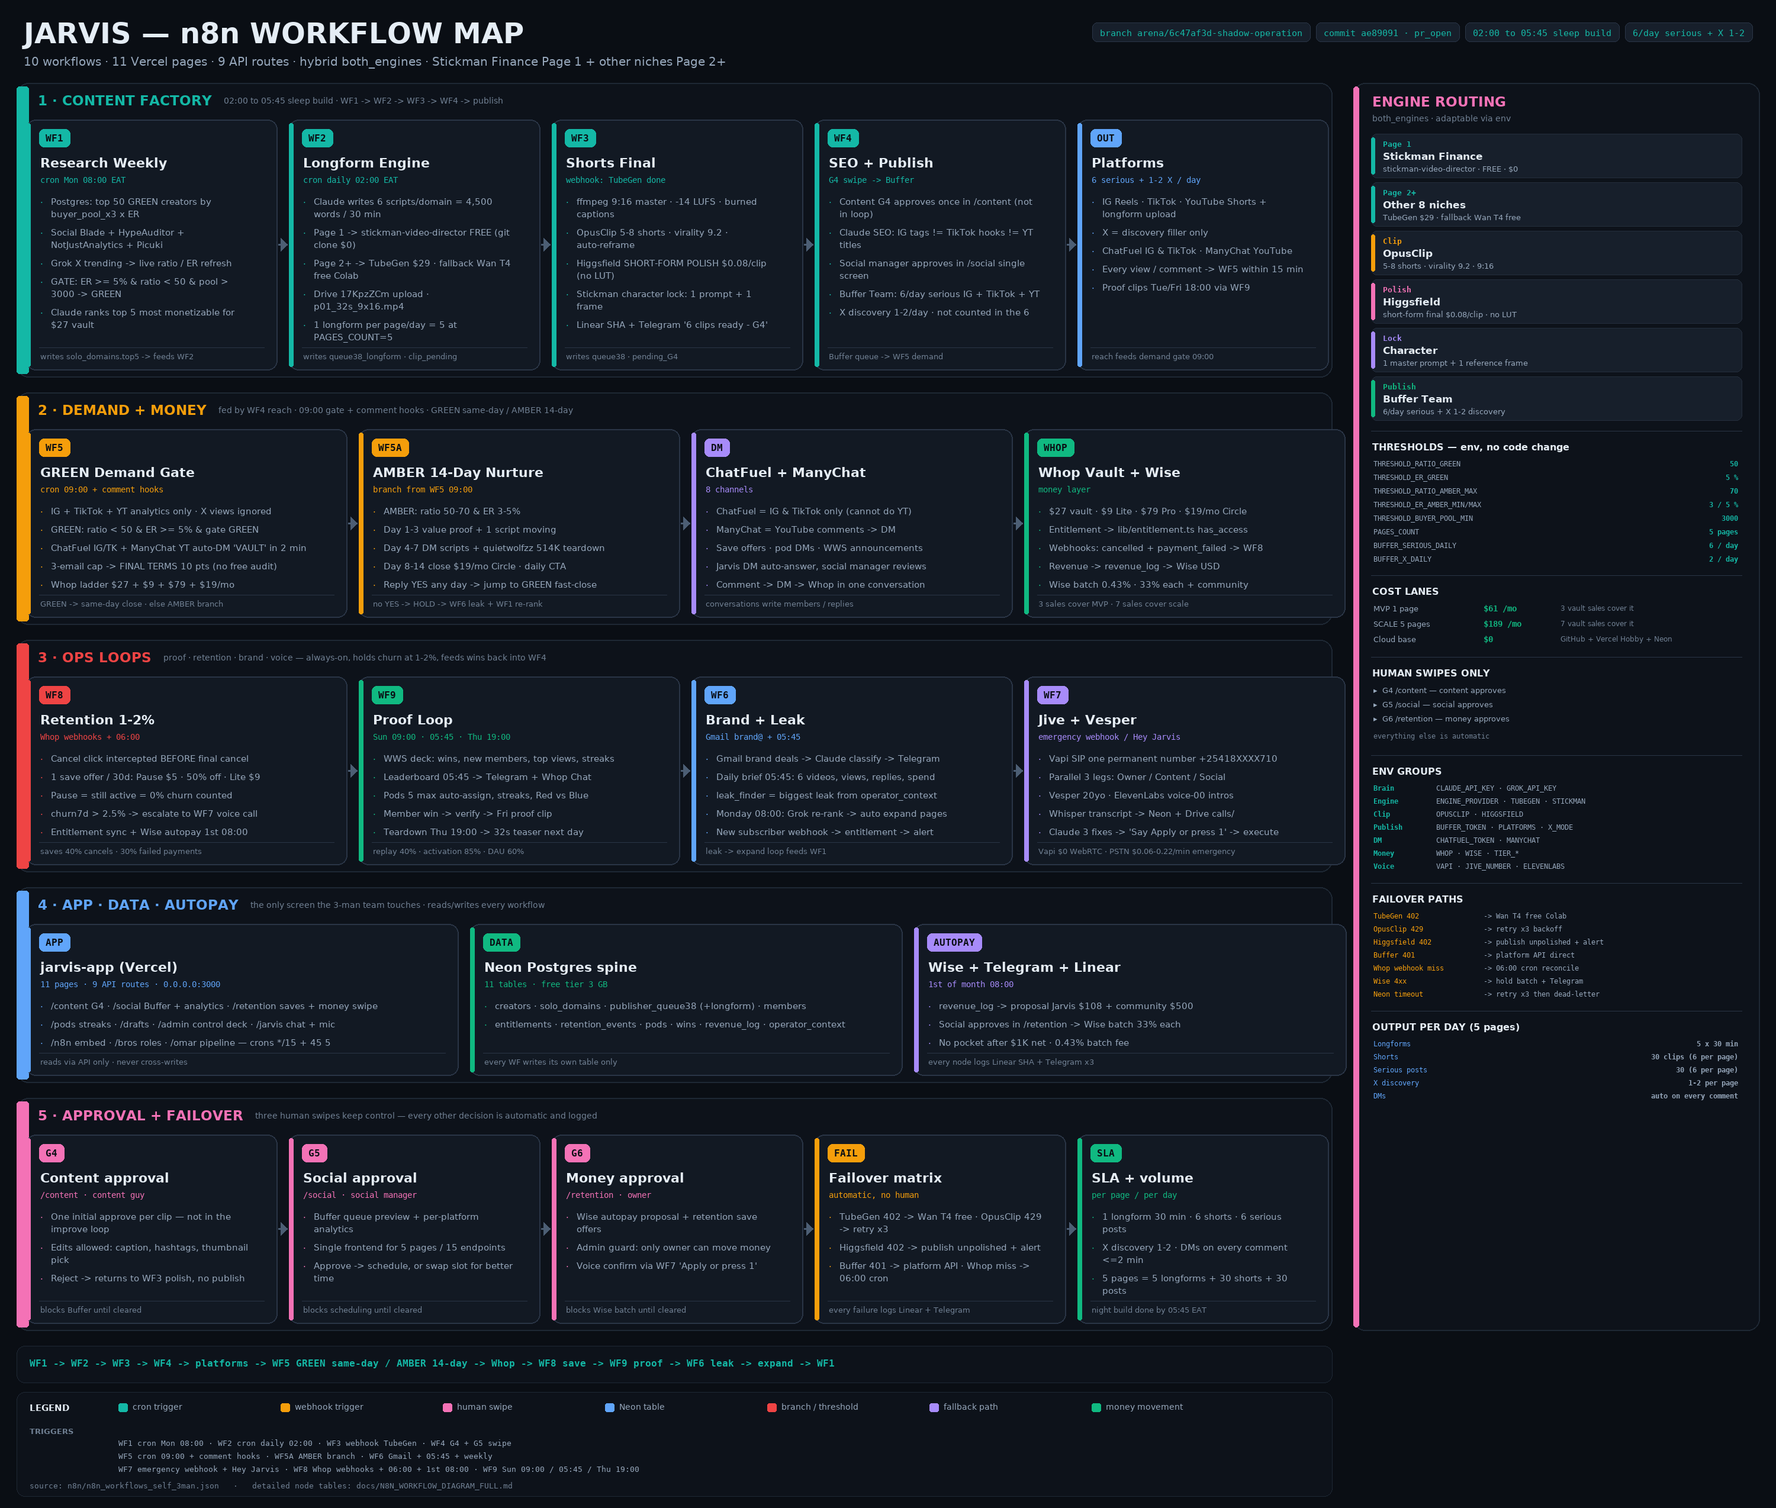
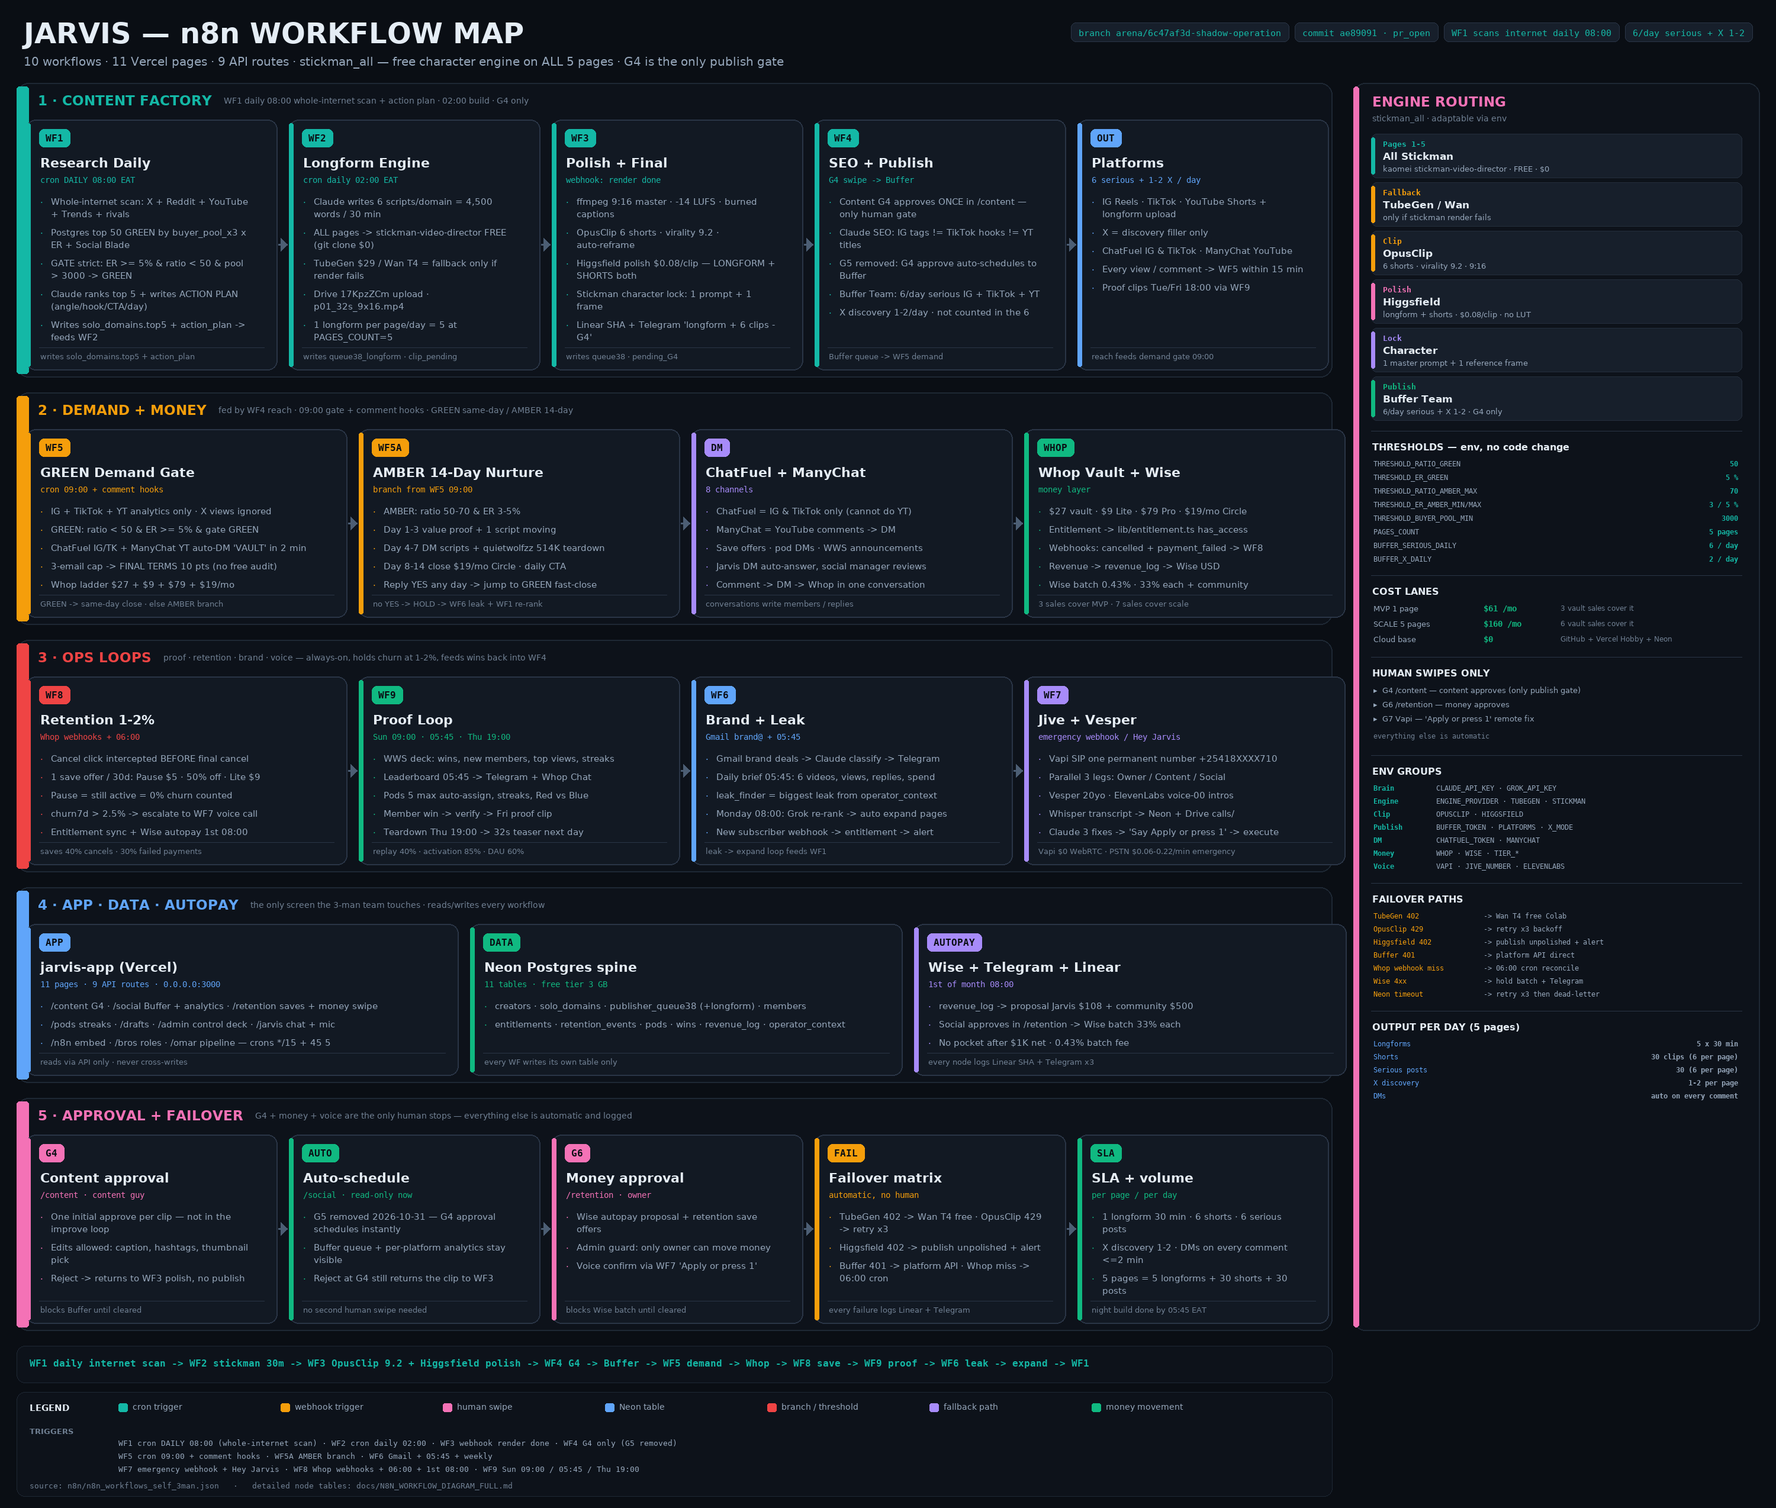
Round1 workflow answers: WF1 daily whole-internet scan + action plan, stickman_all every page, Higgsfield polishes longform+shorts, G5 removed (G4 only)
- WF1 cron Mon -> DAILY 08:00: whole-internet strategy scan (X/Reddit/YouTube/Trends/rivals) + Claude action plan per niche (angle/hook/CTA/day/proof), writes solo_domains.action_plan
- Engine stickman_all: kaomei/stickman-video-director free renders 30m longform AND shorts on ALL pages; TubeGen $29 -> fallback only if render fails
- Higgsfield polish scope longform+shorts (both go through Buffer), character lock unchanged, no LUT
- G5 social approval removed: G4 approve auto-schedules Buffer; /social read-only analytics
- Thresholds unchanged (strict 5% / <50 / 3000)
- cost $189 -> $160/mo (TubeGen to fallback), 6 sales cover scale
- poster + docs regenerated, ENGINE_PROVIDER=stickman_all

diff --git a/jarvis-app/app/content/page.tsx b/jarvis-app/app/content/page.tsx
@@ -6,18 +6,18 @@ export default function ContentG4() {
   return (
     <div className="space-y-4">
       <h1 className="text-xl font-bold">Content Guy — Production Pipeline G4 • queue38 pending</h1>
-      <p className="text-sm text-zinc-500">He does the G4 approval & any changes to be made in the content & production pipeline — approves queue38 before Buffer. Claude Max auto-scripts TubeGen 30min → OpusClip auto clips → his G4 tweaks → approve to social. Adaptable niches via CONFIG + Neon solo_domains top5 (no hardcoded here).</p>
+      <p className="text-sm text-zinc-500">He does the G4 approval — the ONLY human approve now (G5 removed 2026-10-31, Buffer auto-schedules on G4). Claude Max auto-scripts 30min → Stickman free engine renders every page → OpusClip clips → Higgsfield polishes longform + shorts → his G4 tweaks → live. WF1 rescans the whole internet daily 08:00 for strategies + action plan. Niches via CONFIG + Neon solo_domains top5.</p>
       <div className="grid grid-cols-3 gap-3 text-sm">
-        <div className="rounded-xl bg-teal-500 text-black p-4"><div className="font-bold">WF2 TubeGen 30m</div><div>Claude auto-scripts {c.words_per_longform} words → TubeGen faceless 30min longform → OpusClip auto → 5-8 shorts — niches from WF1 Grok rank</div></div>
-        <div className="rounded-xl bg-zinc-900 border border-zinc-800 p-4"><div className="font-bold">WF3 Short-form Final</div><div>OpusClip 9.2 virality + Higgsfield improve final Shorts pieces + Stickman Finance character lock (one prompt + one frame) → queue38 — brand voice per niche</div></div>
+        <div className="rounded-xl bg-teal-500 text-black p-4"><div className="font-bold">WF2 Stickman 30m</div><div>Claude auto-scripts {c.words_per_longform} words → stickman free engine renders every page → OpusClip 6 clips — niches + action plan from WF1 daily scan</div></div>
+        <div className="rounded-xl bg-zinc-900 border border-zinc-800 p-4"><div className="font-bold">WF3 Polish + Final</div><div>OpusClip 9.2 virality + Higgsfield polishes BOTH longform + shorts (one prompt + one frame character lock) → queue38 → G4 → Buffer</div></div>
         <div className="rounded-xl bg-zinc-900 border border-zinc-800 p-4"><div className="font-bold">G4 queue38</div><div>queue38 pending_G4 → content guy tweaks captions/hashtags/LUT → approves to Buffer Team queue — excluded from improve loop per lock</div></div>
       </div>
       <div className="rounded-xl bg-zinc-900 border border-zinc-800 p-3 text-xs text-zinc-400">Niche pool (env NICHES_POOL + DB): {pool.join(" • ")} — WF1 Grok picks top5 to Neon solo_domains for WF2. Change env + re-rank without code.</div>
       <div className="rounded-2xl bg-[#13131a] border border-zinc-800 p-5">
         <h2 className="font-bold">queue38 pending_G4 — content guy swipe</h2>
         <div className="mt-3 space-y-2 text-sm">
-          {[`TubeGen 30min: ${pool[0]} Hack #3 → OpusClip 8s clip 1/6 virality 9.2 + virality 9.2 (GREEN <${t.ratio_green}+${t.er_green}%+)`,
-            `TubeGen 30m longform 2/6 ${pool[1]||pool[0]} → OpusClip virality 8.8 + captions 9:16`,
+          {[`Stickman 30min: ${pool[0]} Hack #3 → OpusClip 8s clip 1/6 virality 9.2 + virality 9.2 (GREEN <${t.ratio_green}+${t.er_green}%+)`,
+            `Stickman 30m longform 2/6 ${pool[1]||pool[0]} → OpusClip virality 8.8 + captions 9:16`,
             `OpusClip 32s long ${pool[2]||pool[0]} virality 9.0 → queue38 pending tweaks`].map((text,i)=>(
             <div key={i} className="rounded-xl bg-zinc-900 border border-zinc-800 p-3 flex justify-between items-center">
               <div>{text}</div><button className="px-3 py-1 rounded-full bg-white text-black text-xs font-bold">Approve → Buffer</button>

diff --git a/jarvis-app/lib/jarvis.ts b/jarvis-app/lib/jarvis.ts
@@ -17,7 +17,7 @@ Brand voice: ${process.env.JARVIS_BRAND_VOICE || "adaptive per solo_domains.bran
 GREEN/AMBER GATE (adaptable via THRESHOLD_* env, defaults from config/adaptable.json):
 - GREEN = ratio <${t.ratio_green}:1 + ER ${t.er_green}%+ (buyer_pool_x3, 8-Gate pass) → immediate trigger: Comments→DM→Whop→Purchase superfast path (DM fast-close, no 14-day)
 - AMBER = ratio ${t.ratio_green}-${t.ratio_amber_max}:1 + ER ${t.er_amber_min}-${t.er_amber_max}% → trigger 14-day sequence via ${CONFIG.conversion.chatfuel} + ${CONFIG.conversion.manychat_yt} nurture before Whop
-- RED = ratio >${t.ratio_amber_max} or ER <${t.er_red_min}% → hold, no DM, improve content loop (A/B Hook via Stickman character lock + OpusClip virality + Higgsfield short-form polish + daily ER Social Blade alternatives + weekly re-rank Grok 1000 niches + Whop ladder ${p.ladder_display} A/B — no G4 tweaks per lock)
+- RED = ratio >${t.ratio_amber_max} or ER <${t.er_red_min}% → hold, no DM, improve content loop (A/B Hook via Stickman character lock + OpusClip virality + Higgsfield longform+shorts polish + daily ER Social Blade alternatives + daily re-rank whole-internet scan + Grok 1000 niches + Whop ladder ${p.ladder_display} A/B — no G4 tweaks per lock)
 
 DUAL CONVERSION (both to advantage, prioritize Comments→DM→Whop→Purchase):
 - DMs system = Fast-close (shadow hard-close: 3-email cap → FINAL TERMS one-pager 10pts, sign only after PASS via Gmail/ChatFuel IG&TikTok + ManyChat YT — Whop ${p.ladder_display} ladder link same day, no free audit before YES)
@@ -26,7 +26,7 @@ DUAL CONVERSION (both to advantage, prioritize Comments→DM→Whop→Purchase):
 SHADOW SUPERFAST PATTERN (leak→expand): Daily leak finder (biggest leak in operator_context via /api/cron/daily-brief 05:45) → weekly expand via Grok re-rank top5 monetizable → auto-fix → Whop ladder ${p.ladder_display} auto on PASS. No manual build before PASS.
 
 Other: VET (buyer_pool_x3=avg_comments*3, ratio<${t.ratio_green}:1, ER ${t.er_amber_min}%+, 8-Gate), DRAFT ${c.serious_daily}/day swipe, TRACK Linear, TRIAGE replies 3-email cap, DEMAND test ${t.demand_percent}%+${t.demand_min_replies} raw (${c.channels.filter((x:string)=>x!=="X").join("/")} only X ignored ${c.x_daily}/day), WHOP auto-create on PASS, ${CONFIG.conversion.chatfuel} + ${CONFIG.conversion.manychat_yt}, Buffer Team ${c.serious_daily}/day serious + X ${c.x_daily}/day discovery.
-RETENTION 1-2% (System+Agent+Proof): System M1-5 teach 90% keep 10% edge, Agent Lite $${p.lite}/Pro $${p.pro} stuck 48h detector via lib/entitlement.ts, Proof WWS Sun 09:00 leaderboard 05:45 pod ${CONFIG.scale.pages_count} max. 1 Page =1 ${s.pages_label} (TikTok+IG+X discovery), ${s.pages_count} pages=${s.pages_count} ${s.pages_label}. Hybrid: Stickman Finance free Shorts (stickman-video-director) + TubeGen/Wan longform → OpusClip virality 9.2 → Higgsfield short-form final polish — Stickman character lock + Higgsfield improve Shorts replaces teal/purple LUT.
+RETENTION 1-2% (System+Agent+Proof): System M1-5 teach 90% keep 10% edge, Agent Lite $${p.lite}/Pro $${p.pro} stuck 48h detector via lib/entitlement.ts, Proof WWS Sun 09:00 leaderboard 05:45 pod ${CONFIG.scale.pages_count} max. 1 Page =1 ${s.pages_label} (TikTok+IG+X discovery), ${s.pages_count} pages=${s.pages_count} ${s.pages_label}. Stickman EVERY page: kaomei/stickman-video-director free renders 30m longform + Shorts → OpusClip virality 9.2 → Higgsfield polish on BOTH longform and shorts → character lock (one prompt + one frame) replaces teal/purple LUT. TubeGen $29 fallback only. WF1 scans the whole internet daily 08:00 for strategies + action plan.
 `;
 }
 export const JARVIS_SYSTEM = buildJarvisSystem();

diff --git a/jarvis-app/app/admin/page.tsx b/jarvis-app/app/admin/page.tsx
@@ -12,15 +12,15 @@ export default function AdminPipeline() {
       <div className="grid grid-cols-4 gap-3 text-sm">
         <div className="rounded-xl bg-teal-500 text-black p-4"><div className="font-bold">Monetize {s.pages_count} {s.pages_label}</div><div>Whop ladder {p.ladder_display} per domain scalable — {t.demand_percent}%+{t.demand_min_replies} PASS auto → Whop live — pricing env TIER_* without code</div></div>
         <div className="rounded-xl bg-zinc-900 border border-zinc-800 p-4"><div className="font-bold">Claude Max brain 24/7</div><div>n8n Cloud $20 24/7 + Claude Pro/Max main brain — all prompts via n8n Code + CONFIG thresholds — replaces OpenAI</div></div>
-        <div className="rounded-xl bg-zinc-900 border border-zinc-800 p-4"><div className="font-bold">Higgsfield polish</div><div>Higgsfield improves final Shorts pieces (upscale/clean) + Stickman character lock per Finance page — open-source engine + TubeGen longform</div></div>
+        <div className="rounded-xl bg-zinc-900 border border-zinc-800 p-4"><div className="font-bold">Higgsfield polish</div><div>Higgsfield cleans BOTH the 30m longform and every short (upscale/clean) + Stickman character lock per page — free stickman engine renders all pages</div></div>
         <div className="rounded-xl bg-zinc-900 border border-zinc-800 p-4"><div className="font-bold">Grok speciality</div><div>Research competitors + 1000 faceless {pool[0]}/{pool[1]} niches via X trending → WF1 top5 to solo_domains</div></div>
       </div>
       <div className="rounded-2xl bg-[#13131a] border border-zinc-800 p-5">
         <h2 className="font-bold">Whole pipeline A→Z — admin sees all + decides PASS/FAIL • adaptable via env</h2>
         <ol className="list-decimal ml-5 mt-3 space-y-2 text-sm text-zinc-300">
-          <li><b>TubeGen 30min longform faceless 2h →</b> Claude Max auto-scripts {c.words_per_longform} words per domain (scalable {s.pages_count} via PAGES_COUNT) → admin picks domains from Grok top5</li>
+          <li><b>Stickman 30min longform $0 →</b> Claude Max auto-scripts {c.words_per_longform} words per domain (scalable {s.pages_count} via PAGES_COUNT) → stickman free engine renders every page → admin reviews WF1 daily action plan</li>
           <li><b>OpusClip auto (Claude Pro&Max together n8n automatically clips) →</b> 5-8 shorts virality ranked → admin gets feedback (no approval required) — brand voice per page via solo_domains.brand_voice</li>
-          <li><b>Stickman Shorts + TubeGen longform →</b> OpusClip virality → Higgsfield short-form polish → character lock → queue38 — Content Guy G4 tweaks → admin views</li>
+          <li><b>Stickman longform + Shorts →</b> OpusClip virality → Higgsfield polish (longform + shorts) → character lock → queue38 — Content Guy G4 only (G5 removed) → Buffer auto-schedules</li>
           <li><b>Jarvis SEO (Claude Max) → Buffer Team unlimited →</b> social gives Jarvis autopublish approval → live 24/7 without opening platforms ({c.channels.join("/")})</li>
           <li><b>Analytics one-app Vercel embeds n8n+Buffer+Chatfuel →</b> social manager feedback from Jarvis on all platforms → admin sees one dashboard for all 3 bros</li>
           <li><b>Whop ladder auto on PASS {t.demand_percent}%+{t.demand_min_replies} →</b> admin monetizes pages — Whop sales fund n8n loops (MVP ${s.mvp_monthly} → SCALE ${s.scale_monthly} for {s.pages_count} pages)</li>

diff --git a/docs/BROZ_A_TO_Z_SUMMARY.md b/docs/BROZ_A_TO_Z_SUMMARY.md
@@ -8,11 +8,11 @@
 
 ---
 
-## A — What we built (Full Stack SCALE $189/mo)
+## A — What we built (Full Stack SCALE $160/mo)
 
 **Squad 3-man self-only:** Content G4 (queue38 approve) + Social (Buffer one-app) + Admin (whole pipeline) — equal SEND, you super-admin money/sign. Vercel PWA `0.0.0.0:3000` embeds n8n+Buffer+Chatfuel one frontend.
 
-**Engine chain (nobody opens apps) — Hybrid both_engines:** `Page1 Stickman Finance: stickman-video-director free Shorts (one master prompt + one reference frame locks character)` + `Page2+ Other niches: TubeGen 30m 2h faceless 4.5k words/6 scripts` → `OpusClip 5-8 shorts virality 9.2 9:16 (stickman character lock)` → `Higgsfield short-form polish $0.08` → `Claude Max SEO` → `Buffer 6/day serious IG/TikTok/YT + X 1-2 discovery filler` — Higgsfield final Shorts polish replaces LUT
+**Engine chain (nobody opens apps) — Hybrid both_engines:** `ALL pages: stickman-video-director free renders 30m longform + Shorts (one master prompt + one reference frame locks character)` (TubeGen $29 fallback only) → `OpusClip 5-8 shorts virality 9.2 9:16 (stickman character lock)` → `Higgsfield polish $0.08 — cleans longform AND shorts` → `Claude Max SEO` → `Buffer 6/day serious IG/TikTok/YT + X 1-2 discovery filler` — Higgsfield longform+shorts polish replaces LUT
 
 **Fall engine:** Wan 1.3B T4 free Colab `WAN_T4_URL` — TubeGen missing → Wan auto, Higgsfield alone cannot make source.
 
@@ -26,7 +26,7 @@
 
 **Trigger auto:** Demand `1%+25` IG/TikTok/YT only (X ignored) `replies >= max(25, ceil(views*1%))` → Whop product auto-create → Chatfuel push `VAULT`.
 
-**Math:** MVP $61/mo 1 brand → 3 sales $81 covers. SCALE $189 5 brands → 7 sales $189 covers. Year1 pocket $189×12=$2,268 + $60 PSTN = $2,328 you fund → net $1K/mo for 3 bros 30/20/50 → 100K gross same flat.
+**Math:** MVP $61/mo 1 brand → 3 sales $81 covers. SCALE $189 5 brands → 7 sales $189 covers. Year1 pocket $189×12=$1,920 + $60 PSTN = $2,328 you fund → net $1K/mo for 3 bros 30/20/50 → 100K gross same flat.
 
 ---
 
@@ -94,7 +94,7 @@ System M1-M5 teaches 90% → Agent Lite $9/Pro $29 stuck 48h → Proof WWS Sun 0
 | Plan | Monthly | Annual ×12 | Annual Prepaid | Save |
 |---|---|---|---|---|
 | **MVP 1 brand** | $61 | $732 | $576 (n8n annual) | $156 |
-| **SCALE 5 brands** | $189 | $2,268 (+$60 PSTN $2,328) | ~$1,992 | $336 |
+| **SCALE 5 brands** | $189 | $1,920 (+$60 PSTN $2,328) | ~$1,992 | $336 |
 
 Pay monthly until $1K net, then prepaid to save.
 

diff --git a/docs/CLAUDE_MASTER_PROMPT_JARVIS.md b/docs/CLAUDE_MASTER_PROMPT_JARVIS.md
@@ -31,7 +31,7 @@ On first run if CLAUDE_API_KEY missing → run bash jarvis-app/scripts/setup_cla
 
 Flow: X discovery 1-2 filler → WF1 Grok Mon 08:00 top5 buyer_pool_x3 ratio<50 ER 3%+ from config/adaptable.json niches pool (Psychology/Dark Psych/Marketing History/Mindset/Wolf/Consumerism/Self-Improvement/Finance Behavior 1000 niches data/creator_db_faceless_1000_FINAL.csv) → WF2 02:00 6 scripts/domain Claude → Engine 30m p01_32s_9x16.mp4 Katana queue70 → WF3 OpusClip+Higgsfield per-clip → WF4 G4 queue38 → Buffer 6/day serious + X 1-2 discovery → WF5 09:00 demand PASS 1%+25 on IG/TikTok/YT only X ignored → Whop vault auto → Chatfuel IG&TK+Manychat YT 8ch → WF6 05:45 brief + leak→expand daily 05:45 operator_context → WF7 Jive Vesper 3 legs parallel Africa $0.06→Twilio $0.22 Whisper → WF8/WF9 retention/proof.
 
-Costs: MVP $61/mo 1 brand (Wan free+OpusClip free) → SCALE $189/mo 5 brands pocket Year1 $2,328 (till Net $1K/mo for 3 bros 30/20/50 → 100K gross). Annual prepaid saves $336-708 (n8n annual 20% off, TubeGen 6-mo $119, Buffer $10/ch). 3 sales $81 covers MVP, 7 sales $189 covers SCALE.
+Costs: MVP $61/mo 1 brand (Wan free+OpusClip free) → SCALE $160/mo 5 brands pocket Year1 $2,328 (till Net $1K/mo for 3 bros 30/20/50 → 100K gross). Annual prepaid saves $336-708 (n8n annual 20% off, TubeGen 6-mo $119, Buffer $10/ch). 3 sales $81 covers MVP, 7 sales $189 covers SCALE.
 
 Pages: 1 Page=1 YT brand (its TT+IG+Shorts) via Buffer 15 endpoints — PAGES_COUNT env any N. Platforms PLATFORMS=X,IG,TikTok,YT adaptable, X_mode=discovery only.
 

diff --git a/docs/N8N_WORKFLOW_DIAGRAM_FULL.md b/docs/N8N_WORKFLOW_DIAGRAM_FULL.md
@@ -8,8 +8,8 @@
 **Poster:** `docs/n8n_workflow_map.png` (3000px, 5 lanes + engine rail) · **ASCII map:** §1b · **Node tables:** §4
 **Source of truth:** `n8n/n8n_workflows_self_3man.json` · **App:** `jarvis-app` (11 pages, 9 API routes)
 **Workflows:** 10 entries = WF1, WF2, WF3, WF4, WF5, WF5A, WF6, WF7, WF8, WF9
-**Engine:** `both_engines` — Stickman Finance free Shorts (`kaomei/stickman-video-director`) + TubeGen $29 / Wan T4 free longform → OpusClip 9.2 virality → **Higgsfield short-form final polish $0.08/clip** → Buffer 6/day + X 1–2
-**Cost:** MVP **$61/mo** · SCALE 5 pages **$189/mo** (Higgsfield back for Shorts polish only — LUT/watermark stays removed)
+**Engine:** `stickman_all` — `kaomei/stickman-video-director` free renders **30m longform + Shorts on every page** → OpusClip 9.2 → **Higgsfield polish on longform AND shorts $0.08/clip** → Buffer 6/day + X 1–2 (TubeGen/Wan = fallback only)
+**Cost:** MVP **$61/mo** · SCALE 5 pages **$160/mo** (stickman $0 engine, TubeGen $29 fallback only, Higgsfield $29 longform+shorts polish, LUT/watermark stays removed)
 
 ---
 
@@ -239,7 +239,7 @@ gantt
 ## 4. WORKFLOW-BY-WORKFLOW (node level)
 
 ### WF1 — Research Best Monetizable Weekly
-**Role:** Content G4 · **Trigger:** ⏰ `0 8 * * 1` (Mon 08:00 EAT) · **id:** `wf1_research_grok`
+**Role:** Content G4 · **Trigger:** ⏰ `0 8 * * *` (**DAILY** 08:00 EAT per 2026-10-31 answer) · **id:** `wf1_research_grok`
 
 | # | Node (n8n type) | What it does | 🔑 env / config | 🗄 |
 |---|---|---|---|---|
